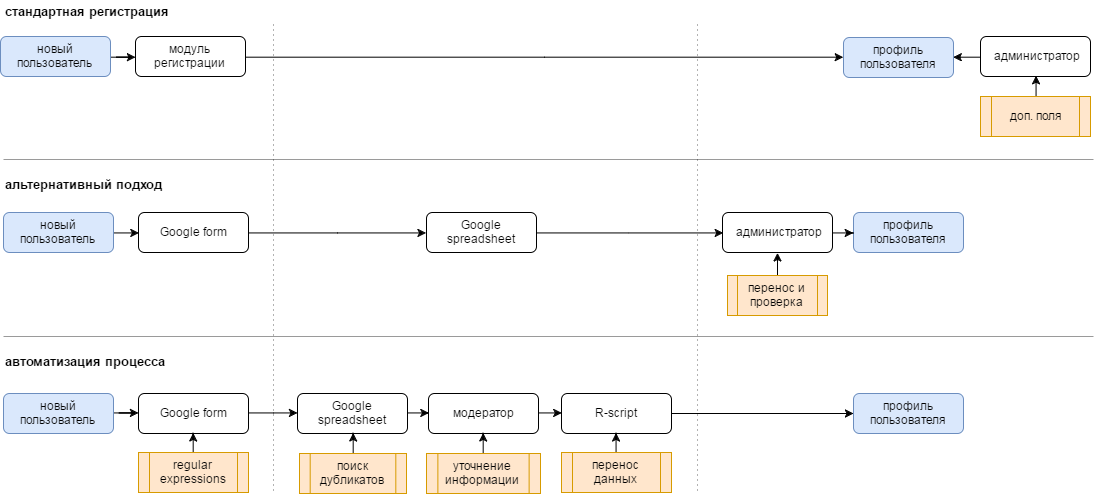
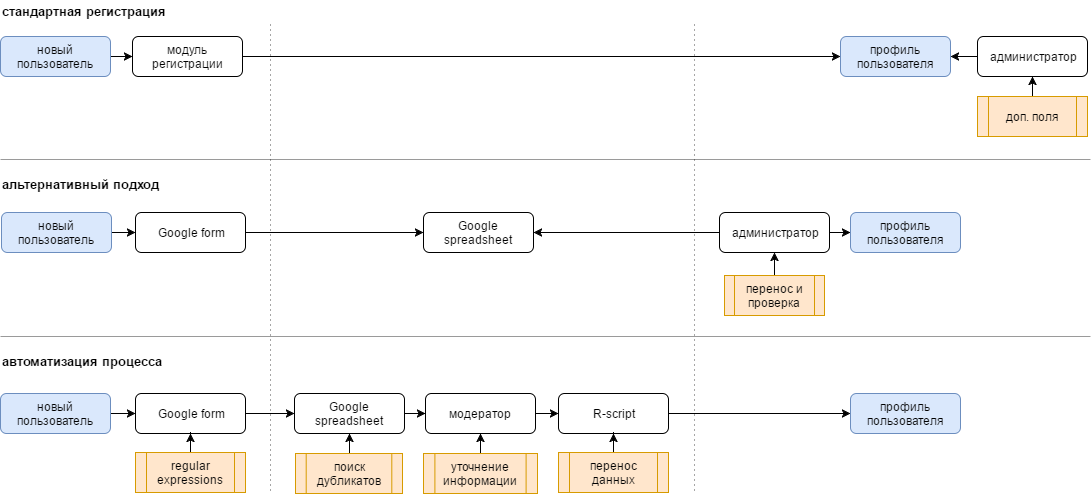
new comments

diff --git a/README.md b/README.md
@@ -1,49 +1,49 @@
 ## Автоматизация регистрации пользователей в ZENLIX  средствами R
 
 ### Стандартная регистрация
-Сотрудники [нашей организации](http://e-tpp.org) работают с обращениями клиентов в системе обработки электронных заявок [ZENLIX v2.95](https://ru.zenlix.com/support/v295/obshchiy-princip-raboty-sistem). Для получения доступа к этой системе новые клиенты проходят процедуру регистрации. К сожалению, средствами самой системы нельзя изменить [стандартную регистрационную форму](https://ru.zenlix.com/support/v295/registraciya-polzovatelya), обязательными полями которой являются только *имя* и *email* клиента. Это очень неудобно с точки зрения сбора информации о клиенте и предприятии, которое он представляет. Правда, внутри самой системы профиль пользователя можно расширить за счет т.н. [дополнительных полей](https://ru.zenlix.com/support/v295/registraciya-polzovatelya), создаваемых администратором. Однако клиенты, как правило, после первичной регистрации такие поля не заполняют, поэтому проблема наполнения клиентской базы таким образом не решается.
+Сотрудники [нашей организации](http://e-tpp.org) работают с обращениями клиентов в системе обработки электронных заявок [ZENLIX v2.95](https://ru.zenlix.com/support/v295/obshchiy-princip-raboty-sistem). Для получения доступа к системе новые клиенты проходят процедуру регистрации. К сожалению, средствами самой системы нельзя изменить [стандартную регистрационную форму](https://ru.zenlix.com/support/v295/registraciya-polzovatelya), обязательными полями которой являются только *имя* и *email* клиента. Это очень неудобно с точки зрения сбора информации о клиенте и предприятии, которое он представляет. Правда, внутри самой системы профиль пользователя можно расширить за счет т.н. [дополнительных полей](https://ru.zenlix.com/support/v295/registraciya-polzovatelya), создаваемых администратором. Однако клиенты, как правило, после первичной регистрации такие поля не заполняют, поэтому проблема наполнения клиентской базы таким образом не решается.
 
 ### Формулировка задачи
-Мы поставили задачу разработать механизм сбора по установленной форме, обработки и сохранения расширенной информации о новом клиенте на этапе его регистрации в системе без изменения ее кода.
+Мы поставили задачу разработать механизм сбора по установленной форме, обработки и сохранения расширенной информации о новом клиенте на этапе его регистрации без изменения кода системы ZENLIX.
 
 ### Альтернативный подход
 Альтернативу стандартной процедуре регистрации мы реализовали на основе открытых сервисов Google. Так, на первом этапе клиенты заполняли специально разработанную нами [многоуровневую Google form](https://docs.google.com/forms/d/e/1FAIpQLSeoVtfR2G0xCI2aqnWvQSeFQUQnt43xpvDDJLHBs3n0uiq2jA/viewform?hl=uk), ответы из которой [сохранялись в Google spreadsheet](https://support.google.com/docs/answer/2917686?hl=ru). Затем администратор [создавал нового пользователя](https://ru.zenlix.com/support/v295/dobavlenieizmenenie-polzovatelya) средствами системы ZENLIX, и переносил в его профиль анкетные данные из Google spreadsheet.
 
 ### Автоматизация процесса
-С ростом количества клиентов возник вопрос автоматизации такого процесса. С помощью скрипта на языке ```R``` и стандартных средств Windows мы перешли к такой схеме (последовательности) регистрации клиента в системе:
+С ростом количества клиентов возник вопрос автоматизации процесса. С помощью скрипта на языке ```R``` и стандартных средств Windows мы перешли к новой схеме (последовательности) регистрации клиента в системе:
 
 * заполнение формы и первичная [валидация данных](https://support.google.com/docs/answer/3378864?hl=en)) ->
 * автоматический перенос ответов из Google form в Google spreadsheet ->
-* проверка анкетных данных администратором (премодерация) ->
+* проверка анкетных данных модератором ->
 * работа R-script по созданию нового пользователя, наполнению его профиля и отправке уведомления ->
-* запуск R-script по расписанию через [планировщик Windows](https://technet.microsoft.com/ru-ru/library/cc721931(v=ws.11).aspx)
+
+При этом запуск R-script осуществляется по расписанию через [планировщик Windows](https://technet.microsoft.com/ru-ru/library/cc721931(v=ws.11).aspx)
 
 ##### Общая схема регистрации пользователей
 ![автоматизация регистрации пользователей](https://raw.githubusercontent.com/woldemarg/zenlix_registration/master/zen_reg_diagram.png)
 
-
 ### Преимущества и недостатки
-Предложенный механизм позволяет разработать и использовать регистрационную форму любого уровня сложности (на основе сервиса Google). Добавление пользователя через R-script реализуется средствами самой системы (через эмуляцию действий администратора с помощью библиотеки [RSelenium](https://cran.r-project.org/web/packages/RSelenium/RSelenium.pdf)), а перенос информации из Google spreadsheet в *БД phpmyadmin* осуществляется с помощью запросов на языке ```SQL```. Это позволяет не менять (пусть и [открытый](https://ru.zenlix.com/support/v295/poluchenie-i-tip-licenzii)) код системы и избежать сбоев в ее работе. Кроме того, сотрудники организации имеют доступ к полноценной БД анкетных данных клиентов (*shared spreadsheet*) также и вне системы ZENLIX.
+Предложенный механизм позволяет разработать и использовать регистрационную форму любого уровня сложности (на основе сервиса Google). Добавление пользователя через R-script реализуется средствами самой системы (через эмуляцию действий администратора с помощью библиотеки [RSelenium](https://cran.r-project.org/web/packages/RSelenium/RSelenium.pdf)), а перенос информации из Google spreadsheet в *БД phpmyadmin* - с помощью запросов на языке ```SQL```. Это позволяет не менять ([открытый](https://ru.zenlix.com/support/v295/poluchenie-i-tip-licenzii)) код системы и избежать сбоев в ее работе. Кроме того, сотрудники организации имеют доступ к полноценной БД анкетных данных клиентов (*shared spreadsheet*) также и вне системы ZENLIX.
 
-При этом для работы R-script необходимо выделить ПК с установленным ```R``` и другим ПО согласно техническим требованиям (см. ниже).
+Однако для работы R-script необходимо выделить ПК с установленным ```R``` и другим ПО согласно техническим требованиям (см. ниже).
 
 ### Технические требования
 Для автоматизации регистрации пользователей следует предварительно настроить сервисы Google и подготовить рабочий ПК для запуска R-script, а именно: 
-1. Установить ```R``` (текущая версия [R-3.3.3](https://cran.r-project.org/)) и загрузить библиотеки (см. ниже)
+1. Установить ```R``` (текущая версия [R-3.3.3](https://cran.r-project.org/)) и загрузить дополнительные библиотеки (см. ниже)
 2. Для переноса данных из Google Form в Google spreadsheet - настроить [сохранение ответов](https://support.google.com/docs/answer/2917686?hl=ru) в таблице 
-3. Для импорта данных из таблицы в ```R``` - получить *shareable link* на файл
-4. Для запуска из ```R```и работы c Selenium Server - 
+3. Для импорта данных из таблицы в ```R``` - [получить shareable link](https://support.google.com/docs/answer/2494822#link_sharing) на файл
+4. Для запуска из ```R``` и работы c Selenium Server - 
 	* [загрузить geckodriver.exe](https://github.com/mozilla/geckodriver/releases) и прописать путь к файлу в системной переменной PATH
 	* [скачать файл selenium-server-standalone-3.0.1.jar](selenium-server-standalone-3.0.1.jar) и поместить в папку проекта
 	* установить бесплатный [веб-браузер Firefox](https://www.mozilla.org/ru/firefox/new/)
 	* [установить Java](https://java.com/ru/download/) и прописать путь к файлу *java.exe* в системной переменной PATH 
-5. Для остановки Selenium Server из ```R``` - загрузить [curl.exe](https://curl.haxx.se/download.html) и прописать путь к файлу в системной переменной PATH (при этом **важно** работать с файлом selenium-server-standalone-3.0.1.jar версии не выше **3.0.1**)
-6. Для [запуска R-script из bat-файла](http://stackoverflow.com/questions/6788928/how-to-run-a-r-language-r-file-using-batch-file) - прописать путь к R.exe в системной переменной PATH (*например, D:\Install\R\R-3.3.3\bin\x64*)
+5. Для остановки Selenium Server из ```R``` - загрузить [curl.exe](https://curl.haxx.se/download.html) и прописать путь к файлу в системной переменной PATH (при этом **важно** работать с именно с файлом selenium-server-standalone-3.0.1.jar)
+6. Для [запуска R-script из bat-файла](http://stackoverflow.com/questions/6788928/how-to-run-a-r-language-r-file-using-batch-file) - прописать путь к RScript.exe в системной переменной PATH (*например, D:\Install\R\R-3.3.3\bin\x64*)
 
 >**Примечание.** Если [проблема с запуском Selenium Server через rsDriver()](https://github.com/woldemarg/zenlix_registration/issues/1) не возникает, то необходимости в совершении действий пп.4-5 нет. 
 
 ### Библиотеки R
-Минимальный набор сторонних библиотек (для ускорения загрузки R-script):
+Минимальный набор сторонних библиотек:
 ```R
 library(gsheet) #импорт данных
 library(DBI) #для работы RMySQL
@@ -54,7 +54,7 @@ library(mailR) #рассылка почты
 
 ### Алгоритм R-script
 Общая последовательность такая:
-1. загрузка проверенных анкет из электронной таблицы
+1. загрузка "промодерированных" анкет из Google spreadsheet
 2. выборка ранее не зарегистрированных пользователей
 3. если есть новые пользователи:
 4. -- старт Selenium Server и вход в систему под администратором
@@ -69,13 +69,13 @@ library(mailR) #рассылка почты
 13. -- остановка Selenium Server и выход из программы
 
 
->**Примечание 1.** Подробные комментарии приведены внутри кода в файле *zen_reg.R*, размещенного в [репозитории](https://github.com/woldemarg/zenlix_registration).
+>**Примечание 1.** Подробные комментарии приведены внутри кода в файле *zen_reg.R*, доступного в [этом репозитории](https://github.com/woldemarg/zenlix_registration).
 >
 >**Примечание 2.** Первая проверка на уникальность логина (email) нового пользователя реализована в электронной таблице через [функцию поиска дубликатов](https://productforums.google.com/forum/#!topic/docs/IDRsyJWM7yc;context-place=topicsearchin/docs/category$3Ahow-do-i%7Csort:relevance%7Cspell:false)
 >
->**Примечание 3.** Автоматический запуск R-script из bat-файла по расписанию реализован через [создание задачи в планировщике Windows](http://stackoverflow.com/questions/2793389/scheduling-r-script). В связи с необходимостью работы на ПК с разными сетевыми настройками bat-файл запускается с аргументами "atHome" и "atWork". 
+>**Примечание 3.** Автоматический запуск R-script из bat-файла по расписанию реализован через [создание задачи в планировщике Windows](http://stackoverflow.com/questions/2793389/scheduling-r-script). В связи с необходимостью работы на ПК с разными сетевыми настройками bat-файл можно запускать с аргументами "atHome" и "atWork" 
 
 ### Итоги и перспективы
-Таким образом, без привлечения сторонних разработчиков и изменения кода системы ZENLIX на основе бесплатного ПО (кроме *планировщика Windows*) и открытых сервисов Google средствами языка ```R``` (до 250 строк кода без комментариев) создан механизм, который обеспечивает полноценный сбор сведений (и их перенос в систему) о клиенте в момент регистрации. Преимуществом такого подхода можно считать промежуточную сводную таблицу с анкетными данными клиентов (Google spreadsheet), которую иначе из системы можно получить только путем объединения таблиц *users* и *user_data*.
+Таким образом, без привлечения сторонних разработчиков и изменения кода системы ZENLIX на основе бесплатного ПО (кроме *планировщика Windows*) и открытых сервисов Google средствами языка ```R``` создан механизм, который обеспечивает полноценный сбор сведений (и их перенос) о клиенте в момент регистрации. Преимуществом такого подхода является промежуточная сводная таблицу с анкетными данными клиентов (Google spreadsheet), которую иначе из системы можно получить только путем объединения таблиц *users* и *user_data*.
 
-Если решить [проблемы кодировки](https://github.com/woldemarg/zenlix_registration/issues/2) и [работы на ПК в корпоративной сети](https://github.com/woldemarg/zenlix_registration/issues/1), то R-script можно существенно оптимизировать и усовершенствовать в части рассылки из ```R``` писем с markdown- или html-разметкой. 
+Если решить [проблемы кодировки](https://github.com/woldemarg/zenlix_registration/issues/2) и [работы на ПК в корпоративной сети](https://github.com/woldemarg/zenlix_registration/issues/1), то R-script можно существенно оптимизировать и перейти к рассылке писем на основе *markdown* или *html* разметки. 
